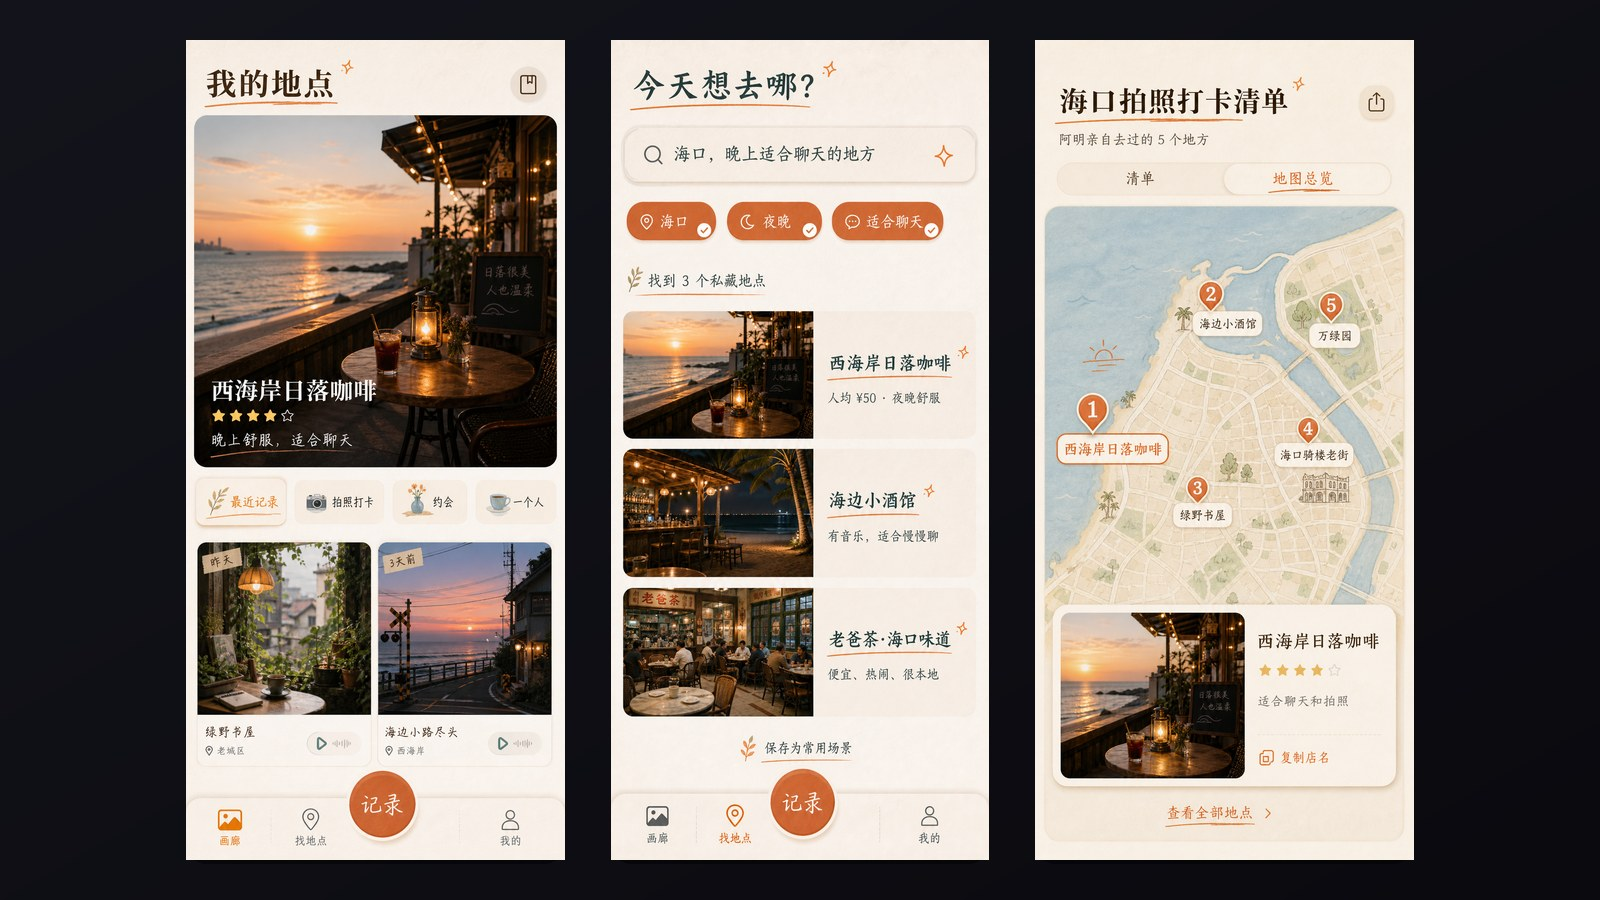
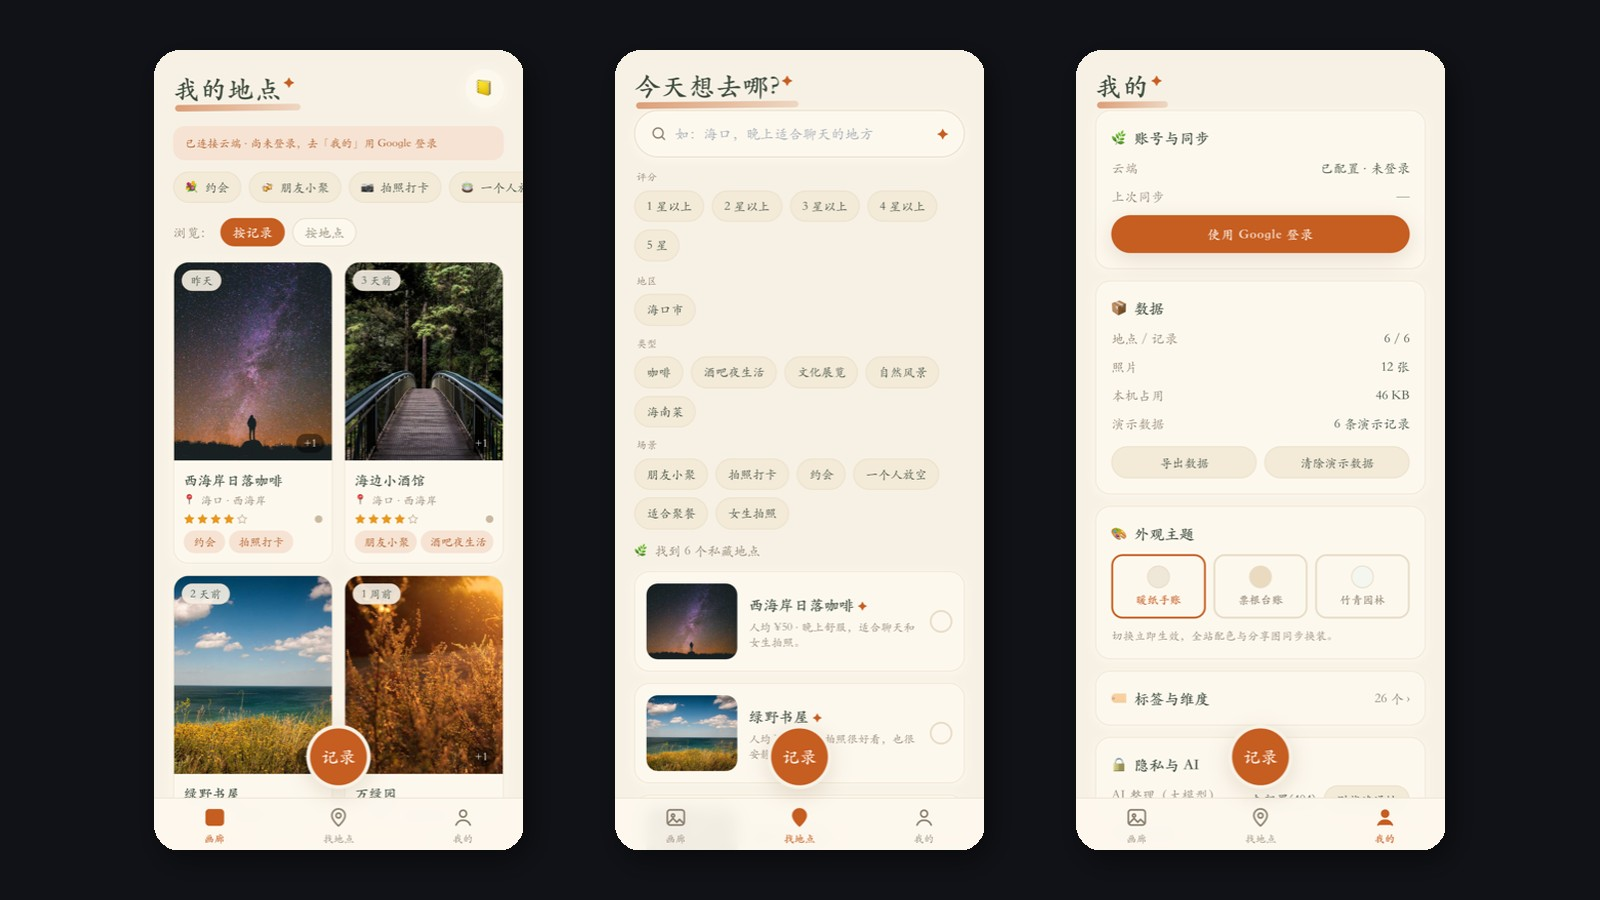
docs(projects): 地点手账条目跟上双端实况，封面换成当前真实界面
仓库侧安卓端已从「Expo 壳」长成与网页功能同构的 App（本机 SQLite、同一账号同步、
浅色/深色/跟随系统），条目里 solution/outcome/tags 还停在壳的口径；封面是早期原型稿
（带已下线的录音图标、非当前演示数据）。文案改为能指回 README 的说法，封面用与
README hero 同一批真渲染截图重合成 16:9。

diff --git a/app/content.ts b/app/content.ts
@@ -738,16 +738,16 @@ export const projects: Project[] = [
     summary:
       "去过的地方拍张照、写两句，自动整理成一本能翻、能找、能分享的地点手账，按地点和标签回到那天的感觉。",
     cover: "/projects/place-journal.jpg",
-    tags: ["PWA", "React 18 + Vite", "Supabase 同步", "本地优先"],
+    tags: ["PWA", "React 18 + Vite", "Supabase 同步", "本地优先", "Expo + RN 安卓端"],
     role: "独立产品设计与开发",
     background:
       "照片攒了一堆，想按「我去过哪些地方」回看却没有结构。这个手账把每次记录变成有地点、有标签、能检索的条目。",
     challenge:
       "AI 供应商要能换（OpenRouter / DeepSeek / OpenCode 三个适配器，12 秒降级）；多端同时改要有冲突裁决；分享出去的快照绝不能带出私密内容。",
     solution:
-      "拍照加语音记一笔，AI 提炼地点与标签；按地点、时间线、标签回顾，支持自然语言搜地点；分享有单卡、清单、地图三种形态且私密字段默认不外泄；数据先写本机 IndexedDB，再由 outbox 同步 Supabase，另配 Expo 安卓壳。",
+      "拍照加语音记一笔，AI 提炼地点与标签；按地点、时间线、标签回顾，支持自然语言搜地点；分享有单卡、清单、地图三种形态且私密字段默认不外泄；数据先写本机 IndexedDB，再由 outbox 同步 Supabase；另有一个功能同构的 Expo + React Native 安卓 App，本机用 SQLite、登录同一账号即同步。",
     outcome:
-      "PWA 已上线并通过验收。云同步、地图与 AI 都需自备 Key，不填也能当纯本机手账用。",
+      "网页版已上线并通过验收，安卓 App 出包在真机自用。云同步、地图与 AI 都需自备 Key，不填也能当纯本机手账用。",
     gallery: [],
     siteUrl: "https://place-journal-xi.vercel.app",
     repoUrl: "https://github.com/wanghoufan/p011-place-journal",

diff --git a/app/i18n.detail.ts b/app/i18n.detail.ts
@@ -236,10 +236,10 @@ export const projectDetailEn: Record<string, ProjectDetailEn> = {
     challenge:
       "The AI provider has to be swappable (three adapters — OpenRouter, DeepSeek, OpenCode — with a 12-second fallback); simultaneous edits from several devices need conflict arbitration; and a shared snapshot must never carry private content out.",
     solution:
-      "A photo plus a spoken note, with AI extracting place and tags; review by place, timeline or tag, with natural-language place search; sharing in three forms — single card, list, map — with private fields withheld by default; data is written locally to IndexedDB first, then synced to Supabase through an outbox, with an Expo Android shell alongside.",
+      "A photo plus a spoken note, with AI extracting place and tags; review by place, timeline or tag, with natural-language place search; sharing in three forms — single card, list, map — with private fields withheld by default; data is written locally to IndexedDB first, then synced to Supabase through an outbox, alongside a feature-matching Expo + React Native Android app that keeps its own local SQLite and syncs once you sign into the same account.",
     outcome:
-      "The PWA is live and accepted. Cloud sync, maps and AI each need your own key; without them it still works as a purely local journal.",
-    tags: ["PWA", "React 18 + Vite", "Supabase sync", "Local first"],
+      "The web app is live and accepted; the Android build runs on real phones for personal use. Cloud sync, maps and AI each need your own key; without them it still works as a purely local journal.",
+    tags: ["PWA", "React 18 + Vite", "Supabase sync", "Local first", "Expo + RN Android"],
   },
   nightrec: {
     role: "Sole design and development",
